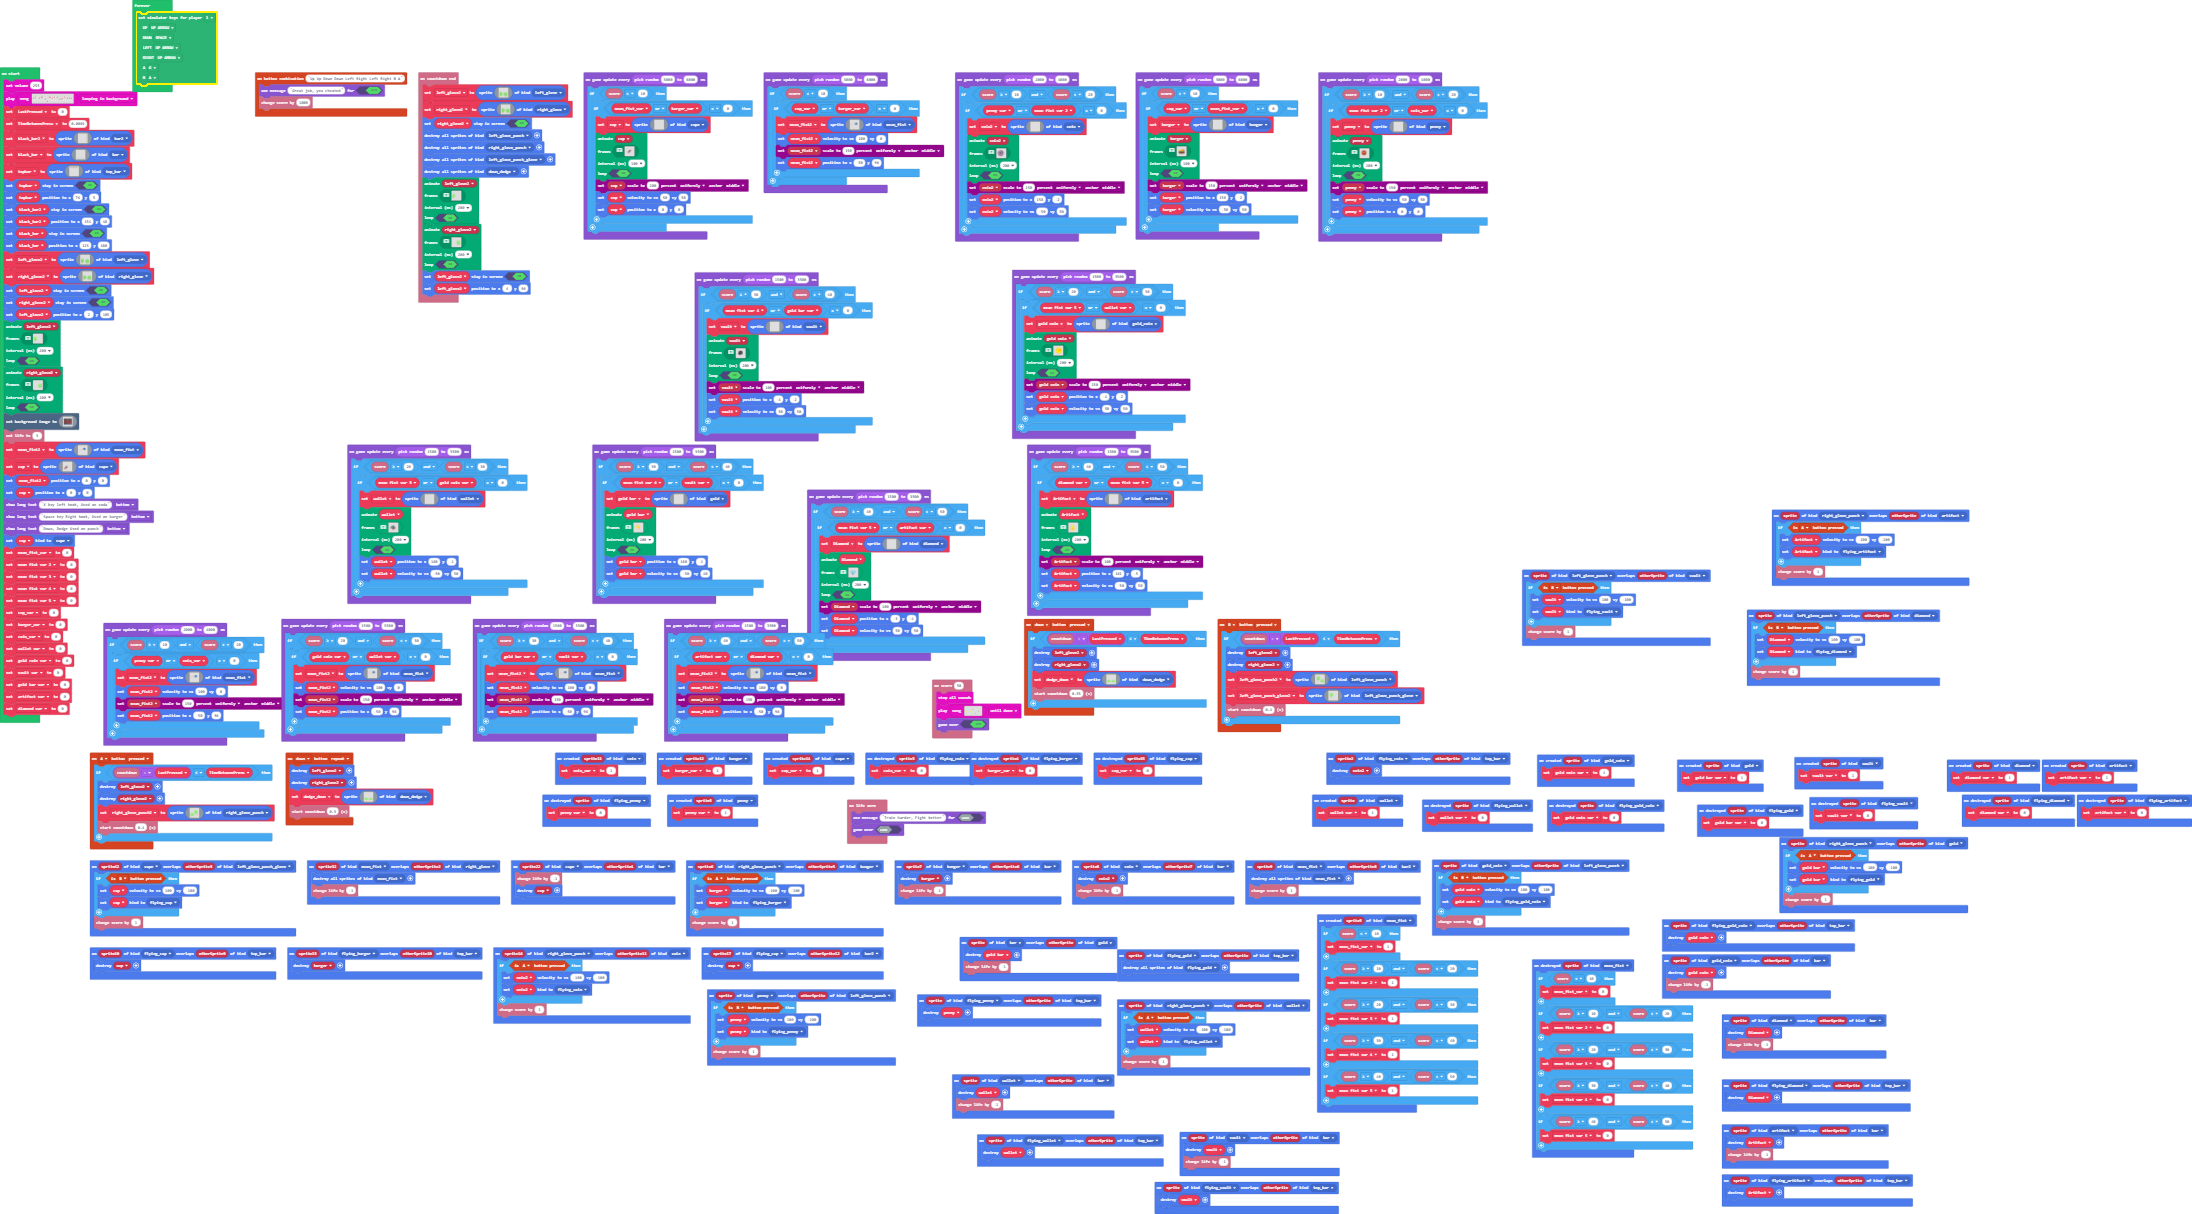
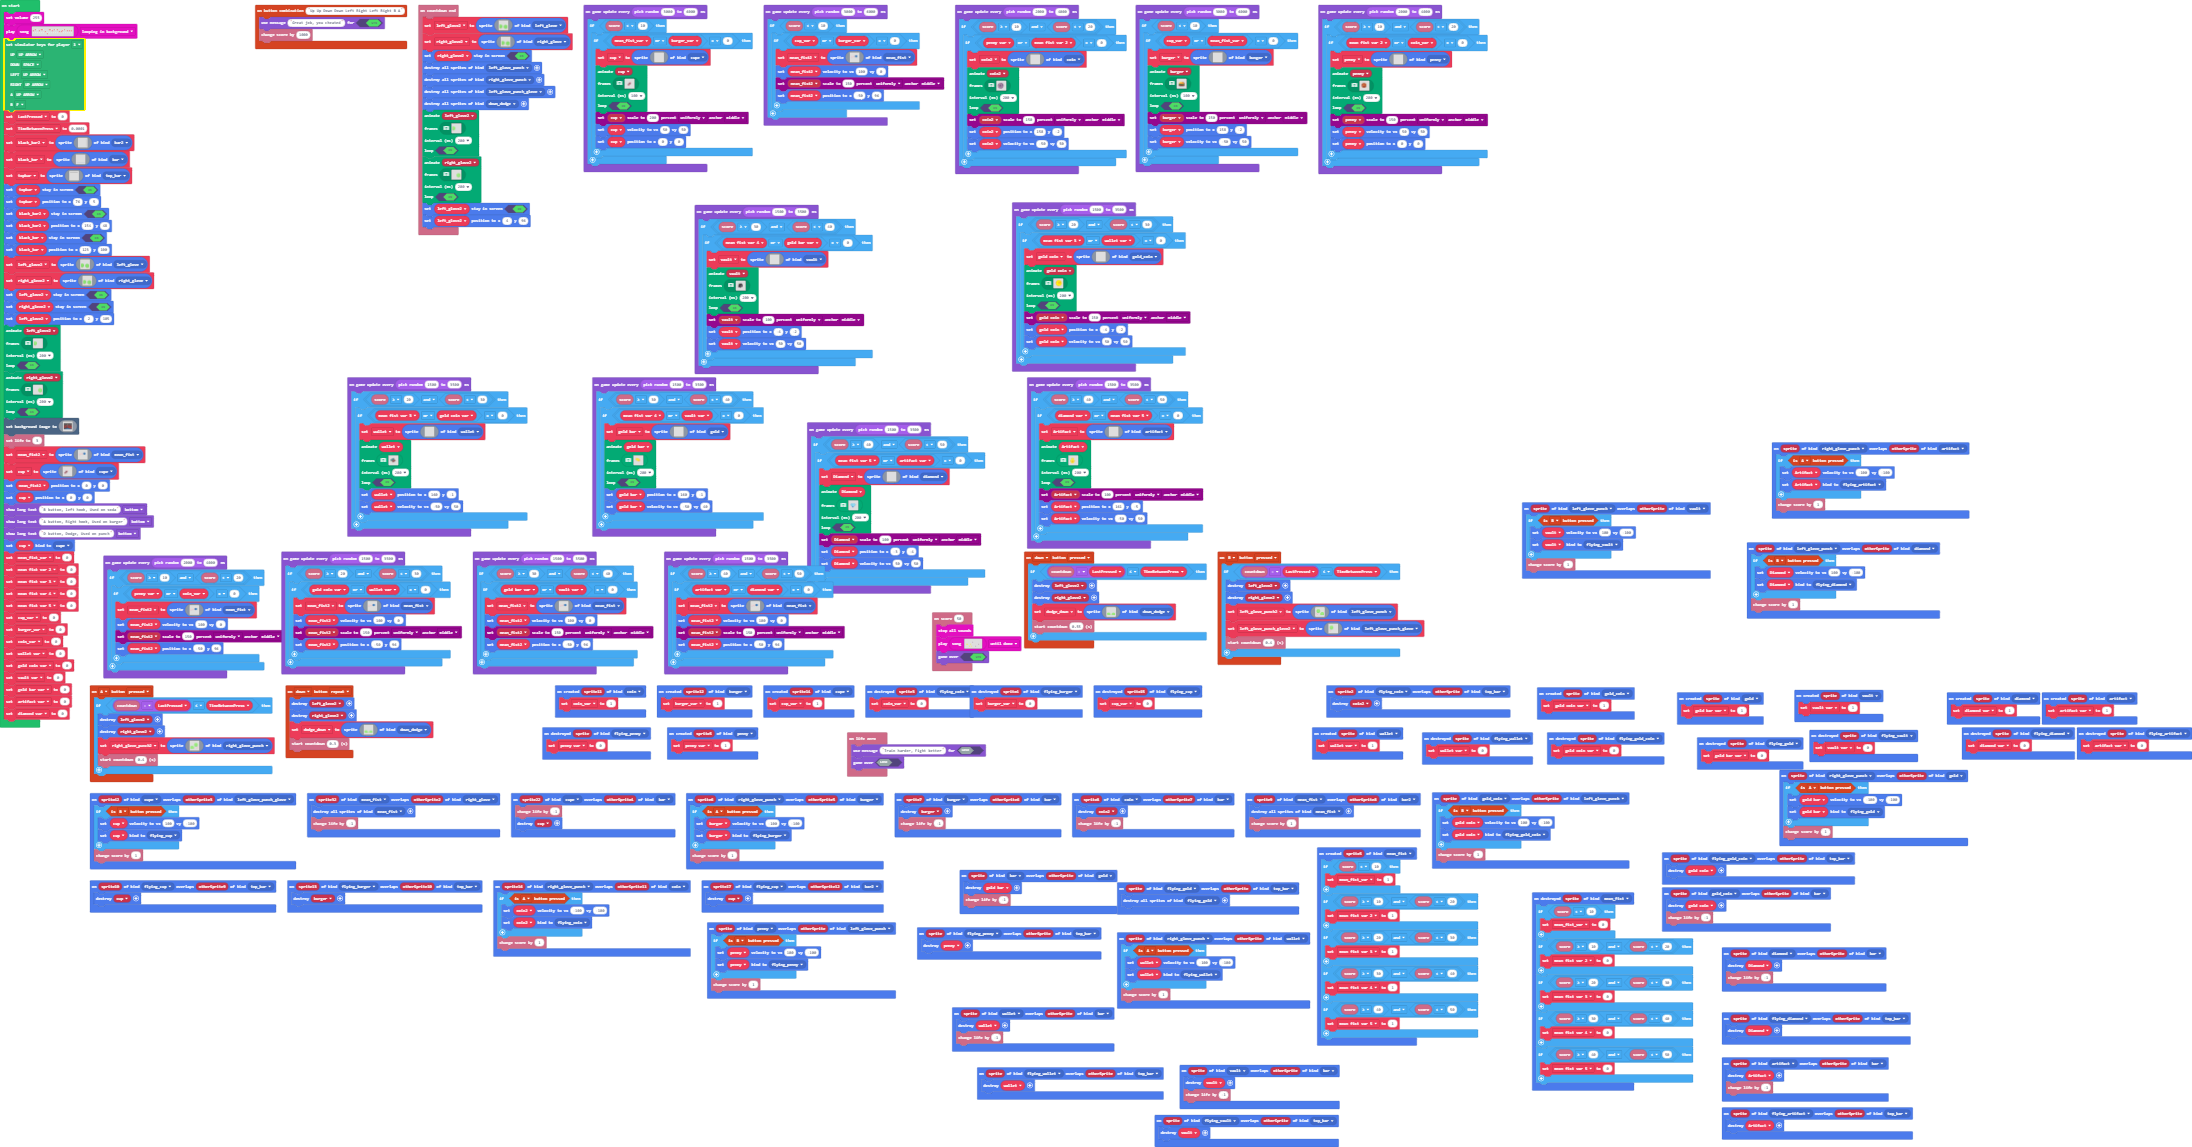
Update main.blocks, main.ts

diff --git a/main.ts b/main.ts
@@ -2077,6 +2077,15 @@ let TimeBetweenPress = 0
 let LastPressed = 0
 music.setVolume(255)
 music.play(music.createSong(assets.song`BgMusic`), music.PlaybackMode.LoopingInBackground)
+MakeyMakey.setSimulatorKeymap(
+MakeyMakey.PlayerNumber.ONE,
+MakeyMakey.MakeyMakeyKey.UP,
+MakeyMakey.MakeyMakeyKey.SPACE,
+MakeyMakey.MakeyMakeyKey.UP,
+MakeyMakey.MakeyMakeyKey.UP,
+MakeyMakey.MakeyMakeyKey.UP,
+MakeyMakey.MakeyMakeyKey.F
+)
 LastPressed = 0
 TimeBetweenPress = 0.0001
 let black_bar2 = sprites.create(img`
@@ -3857,9 +3866,9 @@ cup = sprites.create(img`
     `, SpriteKind.cupe)
 mean_fist2.setPosition(0, 0)
 cup.setPosition(0, 0)
-game.showLongText("X key left hook, Used on soda", DialogLayout.Bottom)
-game.showLongText("Space key Right hook, Used on burger", DialogLayout.Bottom)
-game.showLongText("Down, Dodge Used on punch", DialogLayout.Bottom)
+game.showLongText("B button, left hook, Used on soda", DialogLayout.Bottom)
+game.showLongText("A button, Right hook, Used on burger", DialogLayout.Bottom)
+game.showLongText("D button, Dodge, Used on punch", DialogLayout.Bottom)
 cup.setKind(SpriteKind.cupe)
 mean_fist_var = 0
 mean_fist_var_2 = 0
@@ -4269,17 +4278,6 @@ game.onUpdateInterval(randint(2000, 4000), function () {
             mean_fist2.setPosition(-50, 96)
         }
     }
-})
-forever(function () {
-    MakeyMakey.setSimulatorKeymap(
-    MakeyMakey.PlayerNumber.ONE,
-    MakeyMakey.MakeyMakeyKey.UP,
-    MakeyMakey.MakeyMakeyKey.SPACE,
-    MakeyMakey.MakeyMakeyKey.UP,
-    MakeyMakey.MakeyMakeyKey.UP,
-    MakeyMakey.MakeyMakeyKey.G,
-    MakeyMakey.MakeyMakeyKey.A
-    )
 })
 game.onUpdateInterval(randint(1500, 3500), function () {
     if (info.score() >= 30 && info.score() < 40) {
